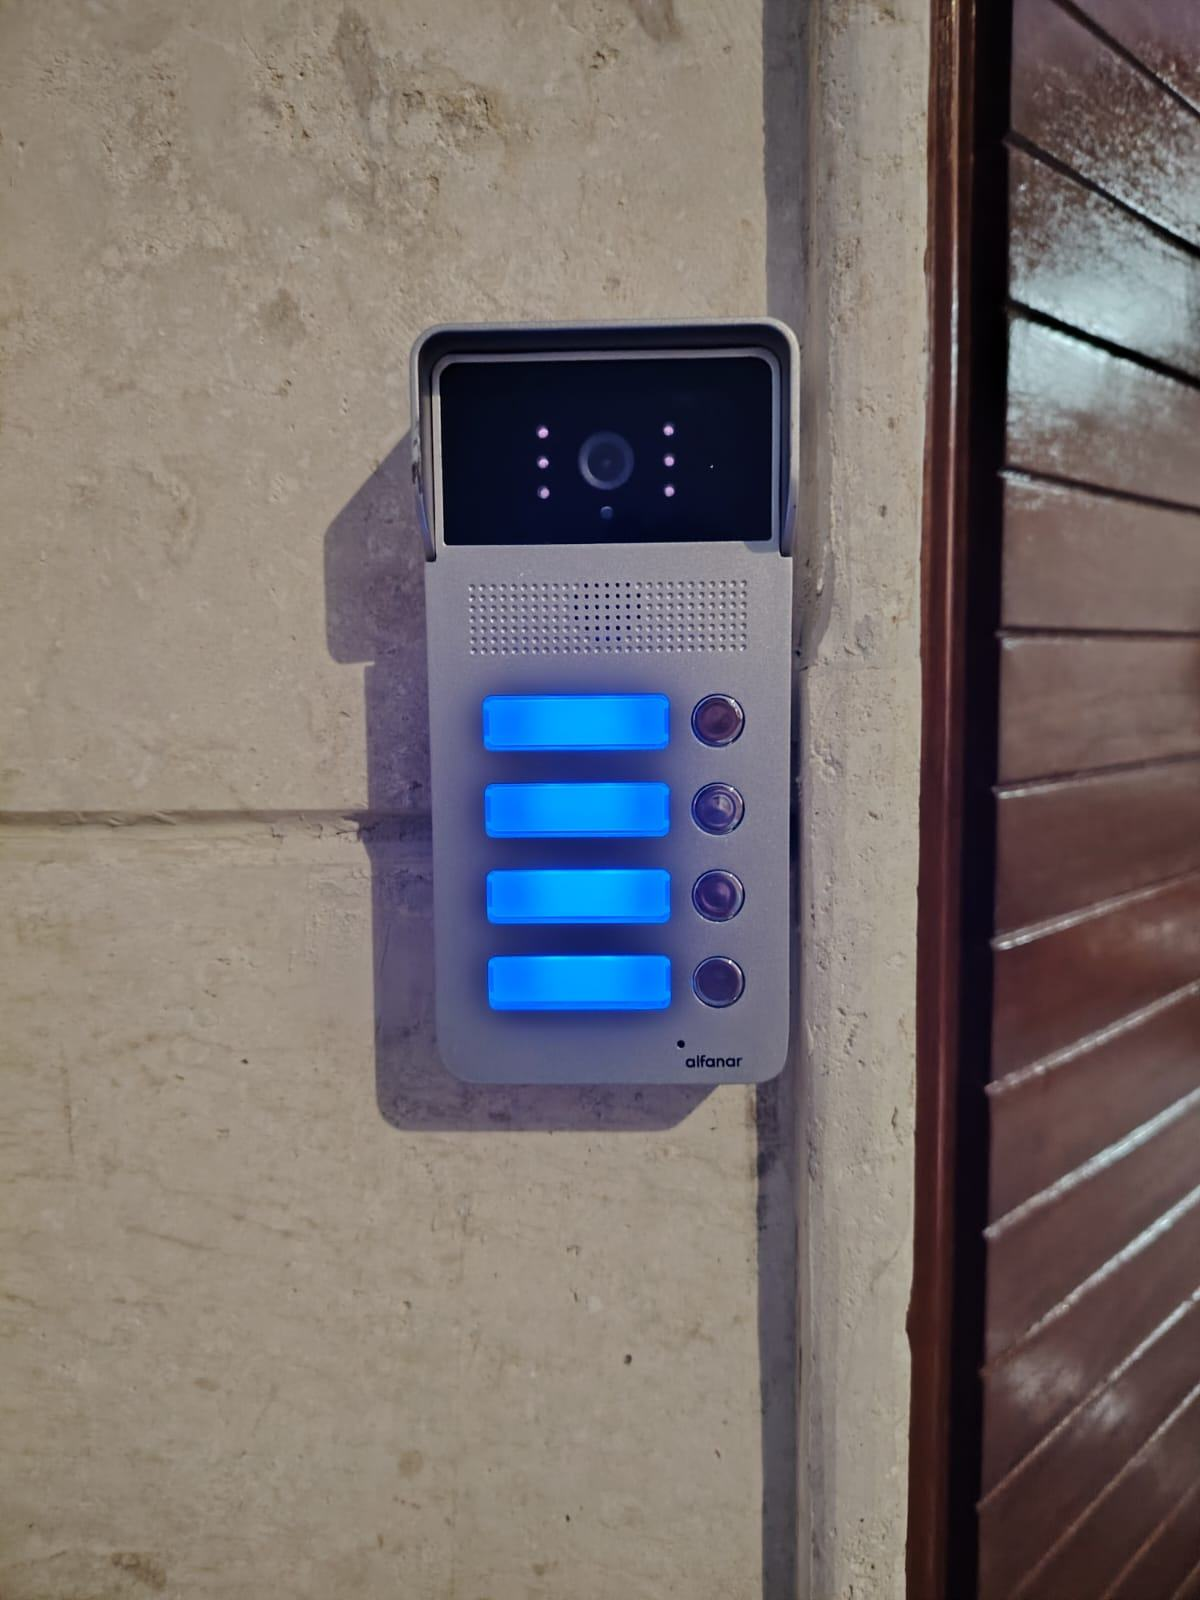
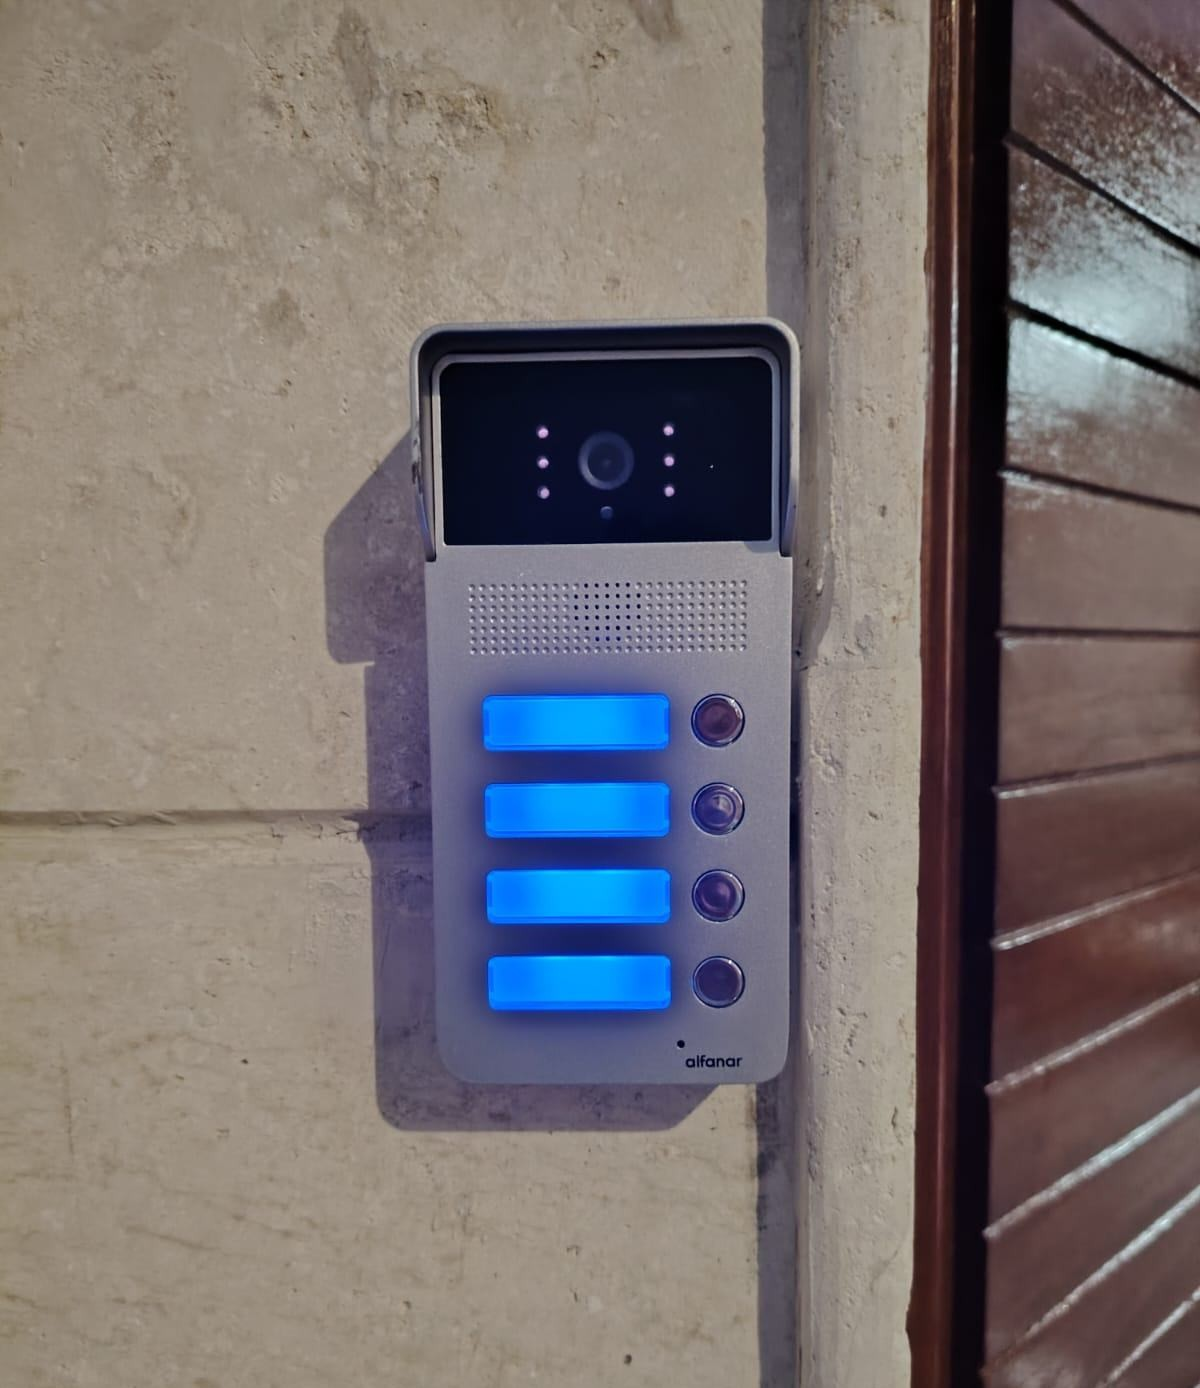
Enhance CardService component and update service descriptions for clarity
- Added support for reduced motion preferences in CardService.vue to improve accessibility.
- Updated service descriptions and highlights in serviceDrafts for better clarity and relevance.
- Revised alt texts and captions in serviceSlides to accurately reflect the services offered.
- Removed outdated image file intercom-outdoor-panel2.jpg to streamline assets.

diff --git a/app/shared/data/services/index.ts b/app/shared/data/services/index.ts
@@ -23,29 +23,29 @@ const serviceDrafts: ServiceDraft[] = [
     slug: 'electrical-networks',
     icon: 'i-heroicons-bolt',
     title: 'شبكات وتأسيس',
-    description: 'تأسيس وتشطيب وصيانة الشبكات الكهربائية بتشطيب مرتب.',
+    description: 'البيت يتأسس من اللوحة إلى الأفياش، والشغل يطلع مرتب.',
     highlights: [
-      'لوحات توزيع وقواطع',
-      'تمديدات ومواسير',
-      'مفاتيح وأفياش',
+      'لوحة مرتبة',
+      'تمديد نظيف',
+      'أفياش ومفاتيح',
     ],
-    body: 'نؤسّس ونشطب الشبكات الكهربائية: لوحات التوزيع، التمديدات، المواسير، والمفاتيح والأفياش. شغل بمعايير سلامة واضحة وتسعير مفهوم قبل التنفيذ.',
+    body: 'نبدأ من اللوحة ونمشي التمديد في السقف والجدران. المواسير والكابلات والأفياش كل واحد في مكانه. بعد التشطيب ما تشوف فوضى أسلاك.',
     gallery: [
       {
         src: '/images/services/networks-breaker-panel.jpg',
-        alt: 'تأسيس وصيانة لوحة توزيع كهربائية',
+        alt: 'لوحة قواطع بعد التأسيس، الأسلاك مرتبة',
       },
       {
         src: '/images/services/networks-ceiling-conduit.jpg',
-        alt: 'تمديد مواسير وقنوات الكهرباء',
+        alt: 'مواسير الكهرباء في السقف',
       },
       {
         src: '/images/services/networks-laser-outlets.jpg',
-        alt: 'تأسيس نقاط المفاتيح والأفياش',
+        alt: 'نقاط المفاتيح والأفياش بعد التأسيس',
       },
       {
         src: '/images/services/networks-corridor-conduits.jpg',
-        alt: 'تمديد وربط الكابلات الكهربائية',
+        alt: 'تمديد كابلات في الممر',
       },
     ],
   },
@@ -53,29 +53,29 @@ const serviceDrafts: ServiceDraft[] = [
     slug: 'lighting',
     icon: 'i-heroicons-light-bulb',
     title: 'إنارة وثريات',
-    description: 'تركيب الثريات والنجف والكشافات بثبات وتشطيب نظيف.',
+    description: 'نجف وثريات يثبتون نظيف، والإضاءة تتوزع صح.',
     highlights: [
       'ثريات ونجف',
       'سبوت وكشافات',
-      'إضاءة معلقة',
+      'من غير فوضى أسلاك',
     ],
-    body: 'نركب الثريات والنجف والسبوت والكشافات بتثبيت آمن وتوزيع إضاءة صحيح، مع تشطيب مرتب من غير فوضى أسلاك أو عيوب ظاهرة.',
+    body: 'نركب النجف والثريا بثبات، والسبوت يتوزع على السقف. الشغل نظيف من تحت، ما فيه أسلاك باينة.',
     gallery: [
       {
         src: '/images/services/lighting-crystal-chandelier.jpg',
-        alt: 'تركيب الثريات والنجف',
+        alt: 'نجفة كريستال في سقف حديث',
       },
       {
         src: '/images/services/lighting-downlight-grid.jpg',
-        alt: 'تركيب الكشافات والسبوت لايت',
+        alt: 'سبوت وكشافات في السقف',
       },
       {
         src: '/images/services/lighting-glass-rods.jpg',
-        alt: 'تركيب إضاءة معلقة',
+        alt: 'إضاءة معلقة في السقف',
       },
       {
         src: '/images/services/lighting-petal-chandelier.jpg',
-        alt: 'تركيب نجفة بإضاءة كاملة',
+        alt: 'نجفة بعد التركيب',
       },
     ],
   },
@@ -83,29 +83,29 @@ const serviceDrafts: ServiceDraft[] = [
     slug: 'decorative-led',
     icon: 'i-heroicons-sparkles',
     title: 'ليدات ديكورية',
-    description: 'تركيب ليدات وإنارة مخفية بتشطيب عصري وإضاءة متوازنة.',
+    description: 'إنارة مخفية تغيّر شكل السقف، من غير تعقيد.',
     highlights: [
       'إنارة مخفية',
       'ليدات أسقف',
-      'إضاءة ديكور',
+      'إضاءة هادية',
     ],
-    body: 'نركب الليدات الديكورية والإنارة المخفية بتشطيب مرتب وإضاءة متوازنة تضيف لمسة حديثة للمكان بدون تعقيد.',
+    body: 'الليدات المخفية تغيّر شكل السقف من غير ما تثقله. نركبها مرتبة، والإضاءة تطلع هادية وواضحة.',
     gallery: [
       {
         src: '/images/services/led-geometric-ceiling.jpg',
-        alt: 'تركيب ليدات ديكورية وإنارة مخفية',
+        alt: 'سقف بليدات هندسية وإنارة مخفية',
       },
       {
         src: '/images/services/led-tiered-ceiling.jpg',
-        alt: 'تركيب إنارة مخفية في السقف',
+        alt: 'إنارة مخفية في سقف طبقات',
       },
       {
         src: '/images/services/led-v-ceiling.jpg',
-        alt: 'تركيب ليدات هندسية في السقف',
+        alt: 'ليدات هندسية في السقف',
       },
       {
         src: '/images/services/led-kitchen-cabinets.jpg',
-        alt: 'تركيب إنارة مخفية للمطابخ والخزائن',
+        alt: 'إنارة مخفية للمطبخ والخزائن',
       },
     ],
   },
@@ -113,21 +113,21 @@ const serviceDrafts: ServiceDraft[] = [
     slug: 'intercom',
     icon: 'i-heroicons-video-camera',
     title: 'انتركوم',
-    description: 'تركيب انتركوم مرئي ووحدات جدارية وسماعات سقف.',
+    description: 'تشوف مين على الباب قبل ما تفتح.',
     highlights: [
-      'انتركوم مرئي',
-      'وحدات جدارية',
-      'سماعات سقف',
+      'كاميرا على الباب',
+      'وحدة داخل البيت',
+      'سهل الاستخدام',
     ],
-    body: 'نركب ونضبط أنظمة الانتركوم المرئي والوحدات الجدارية وسماعات السقف، مع توصيل وتشغيل واضح وسهل للاستخدام اليومي.',
+    body: 'نركب انتركوم مرئي على الباب، ووحدة داخل البيت. تشوف الزاير وتكلمه، والاستخدام يومي وبسيط.',
     gallery: [
       {
         src: '/images/services/intercom-outdoor-panel.jpg',
-        alt: 'تركيب نظام انتركوم مرئي',
+        alt: 'انتركوم مرئي على جدار الباب',
       },
       {
         src: '/images/services/intercom-indoor-panel.jpg',
-        alt: 'وحدة انتركوم جدارية',
+        alt: 'وحدة انتركوم داخل البيت',
       },
       {
         src: '/images/services/intercom-keypad-wiring.jpg',
@@ -139,21 +139,21 @@ const serviceDrafts: ServiceDraft[] = [
     slug: 'fault-diagnosis',
     icon: 'i-heroicons-wrench-screwdriver',
     title: 'فحص أعطال',
-    description: 'تشخيص الأعطال والالتماسات بدقة قبل أي إصلاح.',
+    description: 'الكهرباء قطعت أو في التماس؟ نحدد السبب قبل ما نصلح.',
     highlights: [
-      'كشف التماسات',
-      'فحص لوحات',
-      'طوارئ سريعة',
+      'انقطاع والتماس',
+      'فحص اللوحة',
+      'نجي للطوارئ',
     ],
-    body: 'نفحص أعطال الكهرباء ونشخّص السبب قبل الإصلاح: انقطاع، التماسات، سخونة أفياش، ومشاكل اللوحات — مع استجابة سريعة للطوارئ وتسعير واضح.',
+    body: 'ما نبدّل قطع على طول. نفحص، نقولك وين العطل، وبعدين نصلح. لو طارئة، نجي.',
     gallery: [
       {
         src: '/images/services/networks-breaker-panel.jpg',
-        alt: 'فحص وتشخيص أعطال الكهرباء',
+        alt: 'فحص لوحة الكهرباء بعد العطل',
       },
       {
         src: '/images/services/networks-conduit-panel.jpg',
-        alt: 'فحص لوحة التوزيع والقواطع',
+        alt: 'فحص اللوحة والقواطع',
       },
     ],
   },

diff --git a/app/shared/data/services/slides.ts b/app/shared/data/services/slides.ts
@@ -3,22 +3,27 @@ import type { ServiceSlide } from '../../types/site'
 export const serviceSlides: ServiceSlide[] = [
   {
     src: '/images/services/networks-breaker-panel.jpg',
-    alt: 'لوحة قواطع بعد التأسيس، الأسلاك مرتبة',
-    caption: 'اللوحة بعد التأسيس تطلع مرتبة',
+    alt: 'لوحة قواطع بعد تأسيس الشبكة',
+    caption: 'نمدد الشبكة من اللوحة لين الأفياش',
   },
   {
     src: '/images/services/lighting-crystal-chandelier.jpg',
     alt: 'نجفة كريستال في سقف حديث',
-    caption: 'نركب النجف بثبات، والشغل نظيف',
+    caption: 'نجفة ثابتة، والنور يملأ المكان',
   },
   {
-    src: '/images/services/intercom-outdoor-panel2.jpg',
+    src: '/images/services/intercom-outdoor-panel.jpg',
     alt: 'انتركوم مرئي على جدار الباب',
-    caption: 'انتركوم مرئي، تشوف مين على الباب',
+    caption: 'تشوف مين جاي قبل ما تفتح',
   },
   {
     src: '/images/services/led-cross-tracks.jpg',
-    alt: 'سقف بليدات هندسية وإنارة مخفية بالسلاكات',
-    caption: 'ليدات مخفية بالسلاكات، تعطي شكل حديث',
+    alt: 'سقف بليدات مخفية بالسلاكات',
+    caption: 'السقف ينور بهدوء، وشكله يطلع جديد',
+  },
+  {
+    src: '/images/services/ac-outdoor-rough-in.jpg',
+    alt: 'مواسير المكيف خارجة من الجدار وقت التأسيس',
+    caption: 'نأسس المكيف من برة، والمواسير جاهزة',
   },
 ]

diff --git a/app/components/site/sections/CardService.vue b/app/components/site/sections/CardService.vue
@@ -2,12 +2,18 @@
 import { serviceSlides } from '@/shared/data'
 
 const activeIndex = ref(0)
+const prefersReducedMotion = usePreferredReducedMotion()
 
 const activeSlide = computed(() => serviceSlides[activeIndex.value]!)
 
-useIntervalFn(() => {
+const { pause, resume } = useIntervalFn(() => {
   activeIndex.value = (activeIndex.value + 1) % serviceSlides.length
 }, 5500)
+
+watchImmediate(prefersReducedMotion, (value) => {
+  if (value === 'reduce') pause()
+  else resume()
+})
 
 const goToSlide = (index: number) => {
   activeIndex.value = index
@@ -44,7 +50,7 @@ const goToSlide = (index: number) => {
     >
       <p
         :key="activeSlide.caption"
-        class="caption-sm relative z-10 -mt-6 px-4 text-center md:px-0"
+        class="caption relative z-10 -mt-6 px-4 text-center md:px-0"
       >
         {{ activeSlide.caption }}
       </p>
@@ -60,12 +66,16 @@ const goToSlide = (index: number) => {
         :key="slide.src"
         type="button"
         role="tab"
-        class="h-1.5 rounded-full transition-all duration-300"
-        :class="index === activeIndex ? 'w-5 bg-primary' : 'w-1.5 bg-muted/40 hover:bg-muted/60'"
+        class="flex size-8 items-center justify-center"
         :aria-selected="index === activeIndex"
         :aria-label="slide.caption"
         @click="goToSlide(index)"
-      />
+      >
+        <span
+          class="h-1.5 rounded-full transition-all duration-300"
+          :class="index === activeIndex ? 'w-5 bg-primary' : 'w-1.5 bg-muted/40'"
+        />
+      </button>
     </div>
   </div>
 </template>
